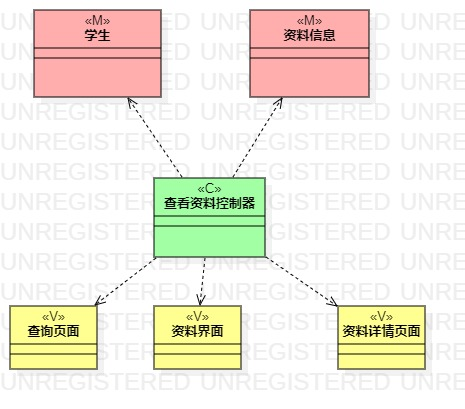
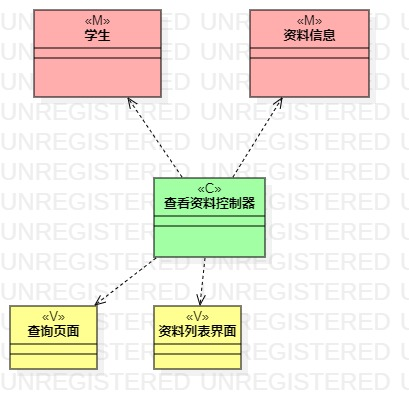
#4 #5 #155 实验四、五

diff --git a/students/1706081301317/lab4&5.md b/students/1706081301317/lab4&5.md
@@ -24,5 +24,5 @@
 ## 四、实验结果
 ![上传资料类图(./lab4&5_1.jpg)
 图1 上传资料类图
-![查看资料类图](./lab4&5_2.jpg)
-图2 查看资料类图
+![查找资料类图](./lab4&5_2.jpg)
+图2 查找资料类图
